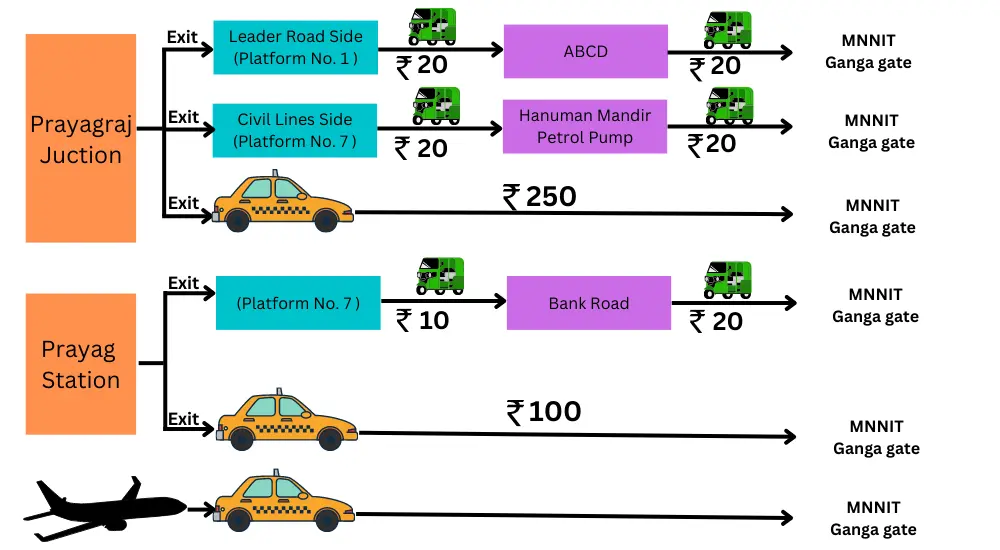
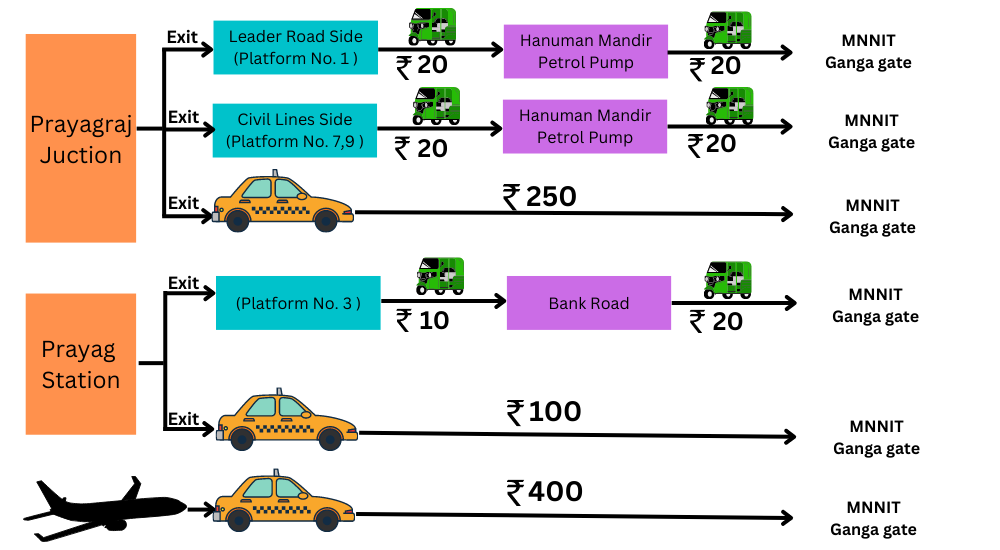
add swift code in reg. page and add how to reach in map page

diff --git a/components/HomeMain.js b/components/HomeMain.js
@@ -25,7 +25,7 @@ const HomeMain = () => {
     Swal.fire({
       icon: 'warning',
       title: 'Important Notice',
-      html: '(1). The conference will be in offline mode however, in certain special cases such medical emergency or any other unavoidable circumstances, author may allowed to present their presentation in ONLINE Mode also.<br/> (2). Camera ready paper submission is currently hold till 13th Feb, 2023 due to some technical issues, it will get resumed on 13th Feb 2023 and the submission deadline for Camera ready paper is extended to 20th Feb 2023.',
+      html: '(1). The conference will be in offline mode however, in certain rare cases such as medical emergency or any other unavoidable circumstances, authors may allowed to present their presentation in ONLINE Mode also.<br/> (2). Camera ready paper submission is currently hold till 13th Feb, 2023 due to some technical issues, it will get resumed on 13th Feb 2023 and the submission deadline for Camera ready paper is extended to 20th Feb 2023.',
     })
   },[])
 
@@ -67,7 +67,7 @@ const HomeMain = () => {
               Swal.fire({
                 icon: 'warning',
                 title: 'Important Notice',
-                html: '(1). The conference will be in offline mode however, in certain special cases such medical emergency or any other unavoidable circumstances, author may allowed to present their presentation in ONLINE Mode also. <br/> (2). Camera ready paper submission is currently hold till 13th Feb, 2023 due to some technical issues, it will get resumed on 13th Feb 2023 and the submission deadline for Camera ready paper is extended to 20th Feb 2023.'
+                html: '(1). The conference will be in offline mode however, in certain rare cases such as medical emergency or any other unavoidable circumstances, authors may allowed to present their presentation in ONLINE Mode also. <br/> (2). Camera ready paper submission is currently hold till 13th Feb, 2023 due to some technical issues, it will get resumed on 13th Feb 2023 and the submission deadline for Camera ready paper is extended to 20th Feb 2023.'
               })
             }}
             className='w-full px-8 mt-4 font-bold btn btn-error animate-pulse border-2 border-stone-100 flex items-center gap-3 text-xl'>

diff --git a/components/Map.js b/components/Map.js
@@ -4,7 +4,7 @@ const Map = () => {
   return (
     <>
 
-{/* <div className='mt-6 p-2'>
+<div className='mt-6 p-2'>
         <h2 className='text-center text-2xl md:text-3xl font-extrabold'>
             <span className='border-b-4 border-orange-400 pb-2 px-2 md:px-8'>
             How to Reach
@@ -47,7 +47,7 @@ Climate: (Sept) Moderately Hot. Temperature varies from 15 to 390C. Languages sp
 For more information please visit the website of Uttar Pradesh Tourism.
         </p>
     </div>
-    </div> */}
+    </div>
     <section id='venue' className="text-gray-600 body-font relative mx-6 pb-16 ">
                 <div className=" px-0 sm:px-5 py-2 mt-8 md:mx-4 lg:mx-12 ">
                 <div className='mt-8 pb-4 flex flex-col items-center justify-center'>

diff --git a/pages/registration.js b/pages/registration.js
@@ -190,6 +190,10 @@ const Registration = () => {
     <span className='text-right'>SBIN0002580</span>
 </div>
 <div className='w-full flex justify-between  py-2'>
+    <span>Swift Code</span>
+    <span className='text-right'>SBININBB828</span>
+</div>
+<div className='w-full flex justify-between  py-2'>
     <span>Bank</span>
     <span className='text-right'>State Bank of India</span>
 </div>
